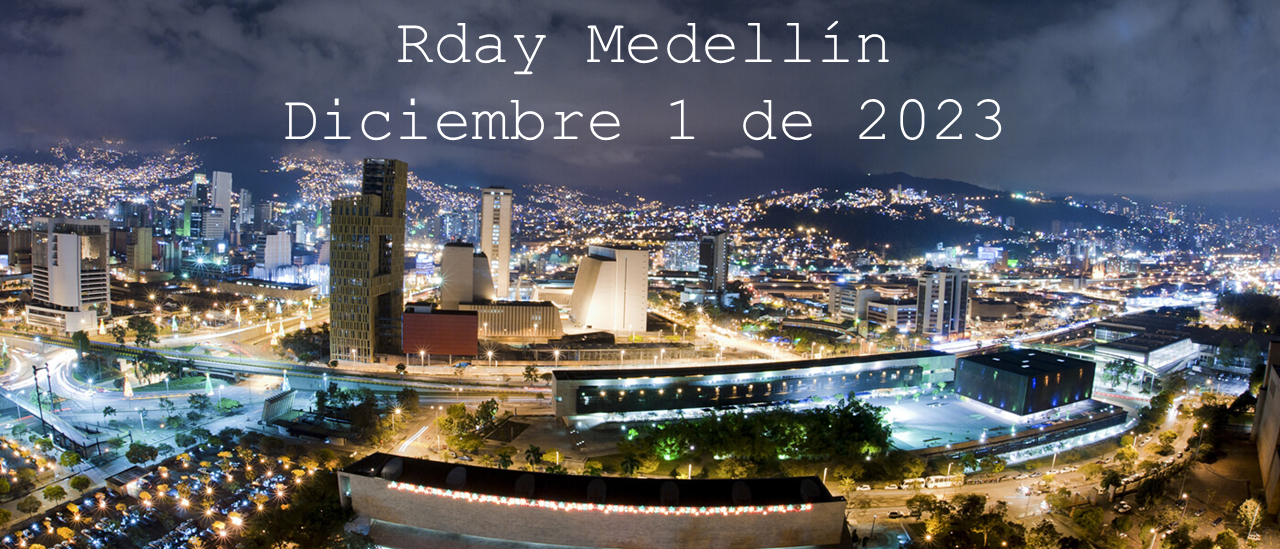
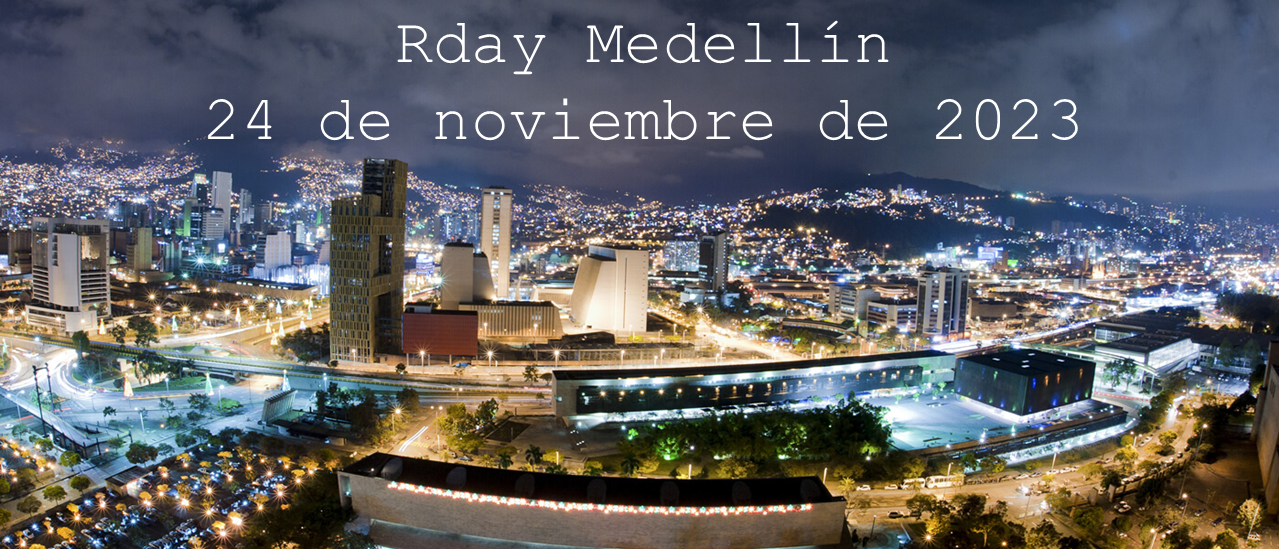
Se cambió la fecha

diff --git a/fechas.html b/fechas.html
@@ -352,7 +352,7 @@ $(document).ready(function () {
 </tr>
 <tr class="even">
 <td>Rday</td>
-<td>01/12/2023</td>
+<td>24/11/2023</td>
 </tr>
 </tbody>
 </table>
